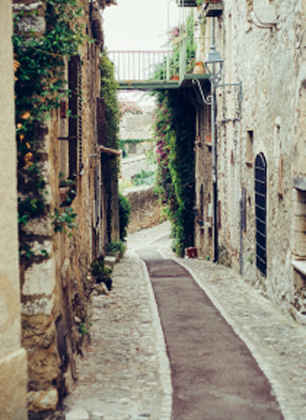
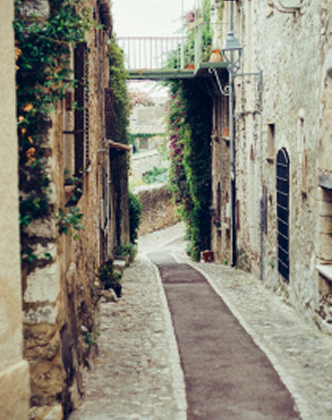
адаптив секции gallery

diff --git a/styles/gallery.css b/styles/gallery.css
@@ -20,28 +20,64 @@
 }
 
 .gallery-content-list {
-  display: flex;
-  flex-wrap: wrap;
-  justify-content: center;
+  display: grid;
+  grid-template-columns: repeat(auto-fill, minmax(306px, 1fr));
+  /* display: flex;
+  justify-content: center; */
   gap: 24px;
 }
 
 .gallery-content-list-item {
-  min-height: 420px;
+  height: 420px;
+  width: 100%;
+  /* height: 420px;
+  max-width: 332px;
+  min-width: 306px; */
 }
 
 .gallery-pictupe {
   display: block;
   width: 100%;
   height: 100%;
+  object-fit: cover;
+  object-position: center;
+}
+
+@media (width <= 1439px) {
+  .gallery-content-list {
+    flex-wrap: wrap;
+  }
 }
 
 @media (width <= 768px) {
   .gallery .container {
-    padding: 80px 39px;
+    padding-inline: clamp(1.25rem, 0.147rem + 4.9vw, 2.5rem); /*щт 40 до 20px;*/
+    padding-block: 80px;
   }
 
   .gallery .heading-block-section {
     grid-column: 1/-1;
+  }
+
+  .gallery .tab-label:has(.tab:checked) {
+    background-color: var(--primary);
+  }
+
+  .gallery .tab-label {
+    border: 1px solid var(--primary);
+  }
+
+  .gallery .heading-block-section-title {
+    font-size: clamp(2rem, 0.732rem + 5.64vw, 3.438rem);
+  }
+}
+
+@media (width <= 360px) {
+  .gallery .container {
+    padding: 48px 20px;
+  }
+  .gallery .tab-label {
+    text-align: center;
+    flex: 1;
   }
 }

diff --git a/styles/variables.css b/styles/variables.css
@@ -6,7 +6,7 @@
   --dark-grey: #5B6876;
   /* Акцентные цвета текста */
   --text: #FFF;
-  --primary: #5221E6;
+  --primary: #5221E6; 
   --green-accent: #3CC74E;
   --pink-accent: #E95D90;
   /* Акцентный фон */
